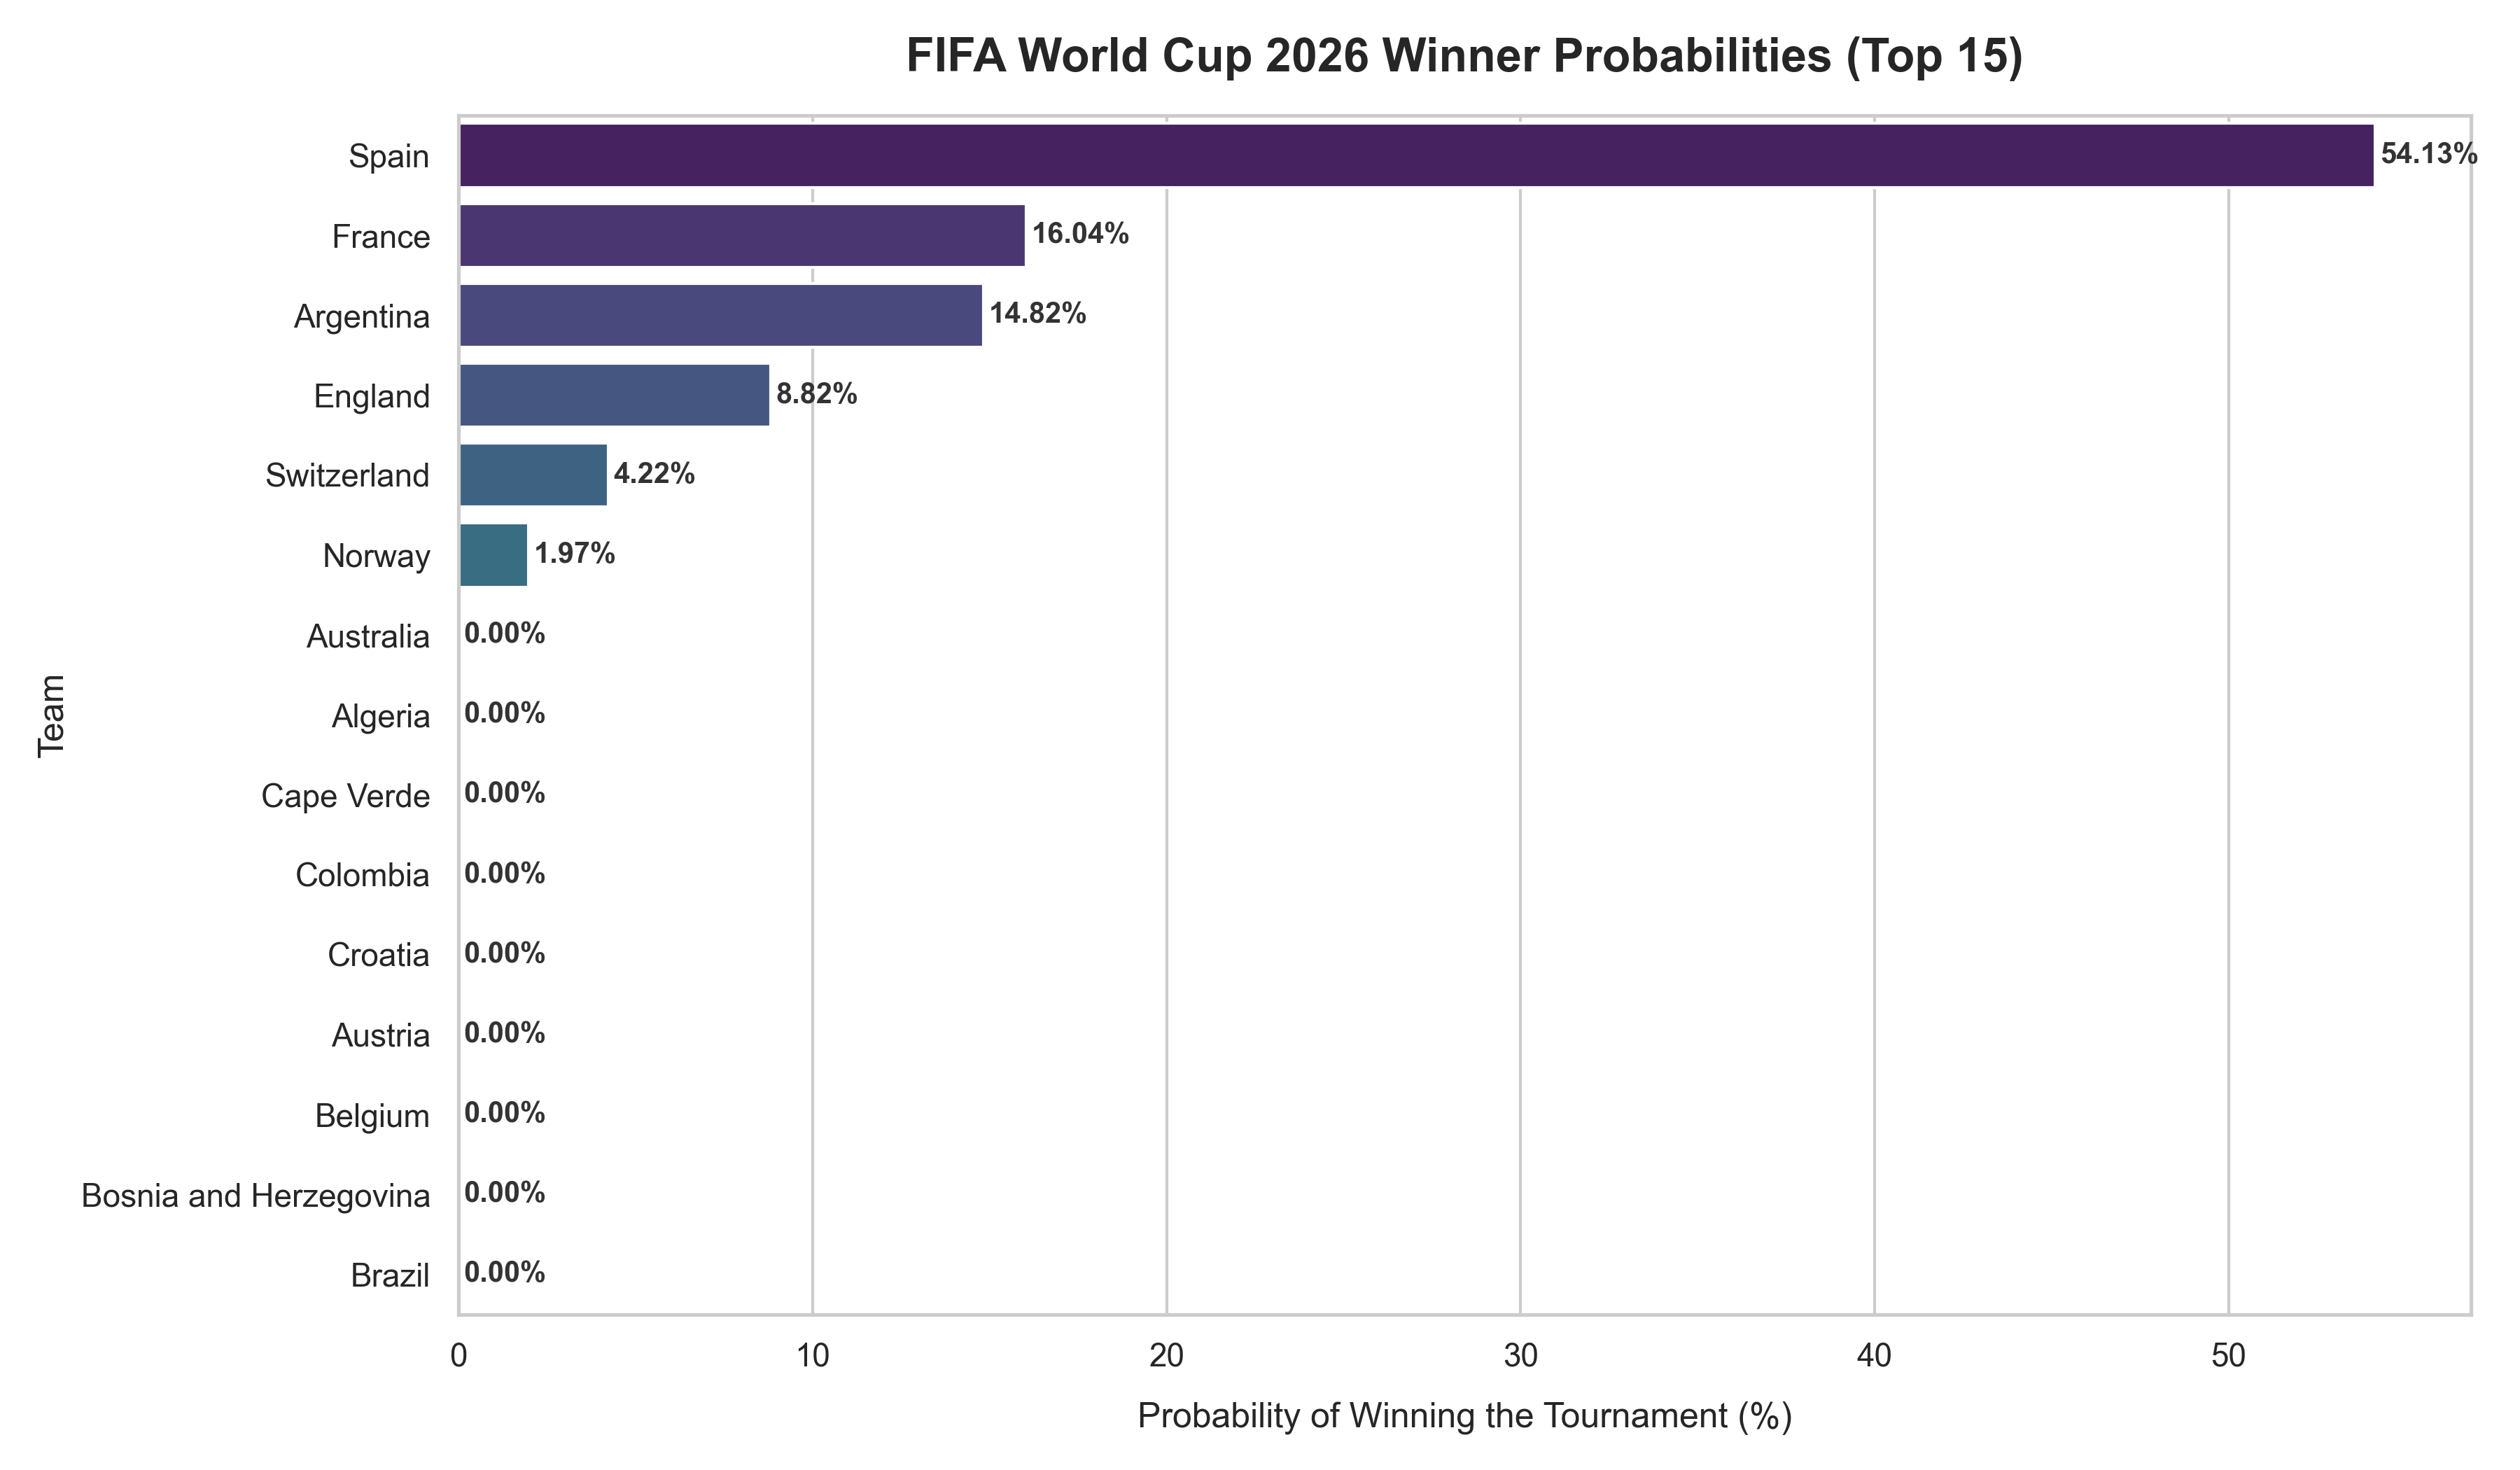
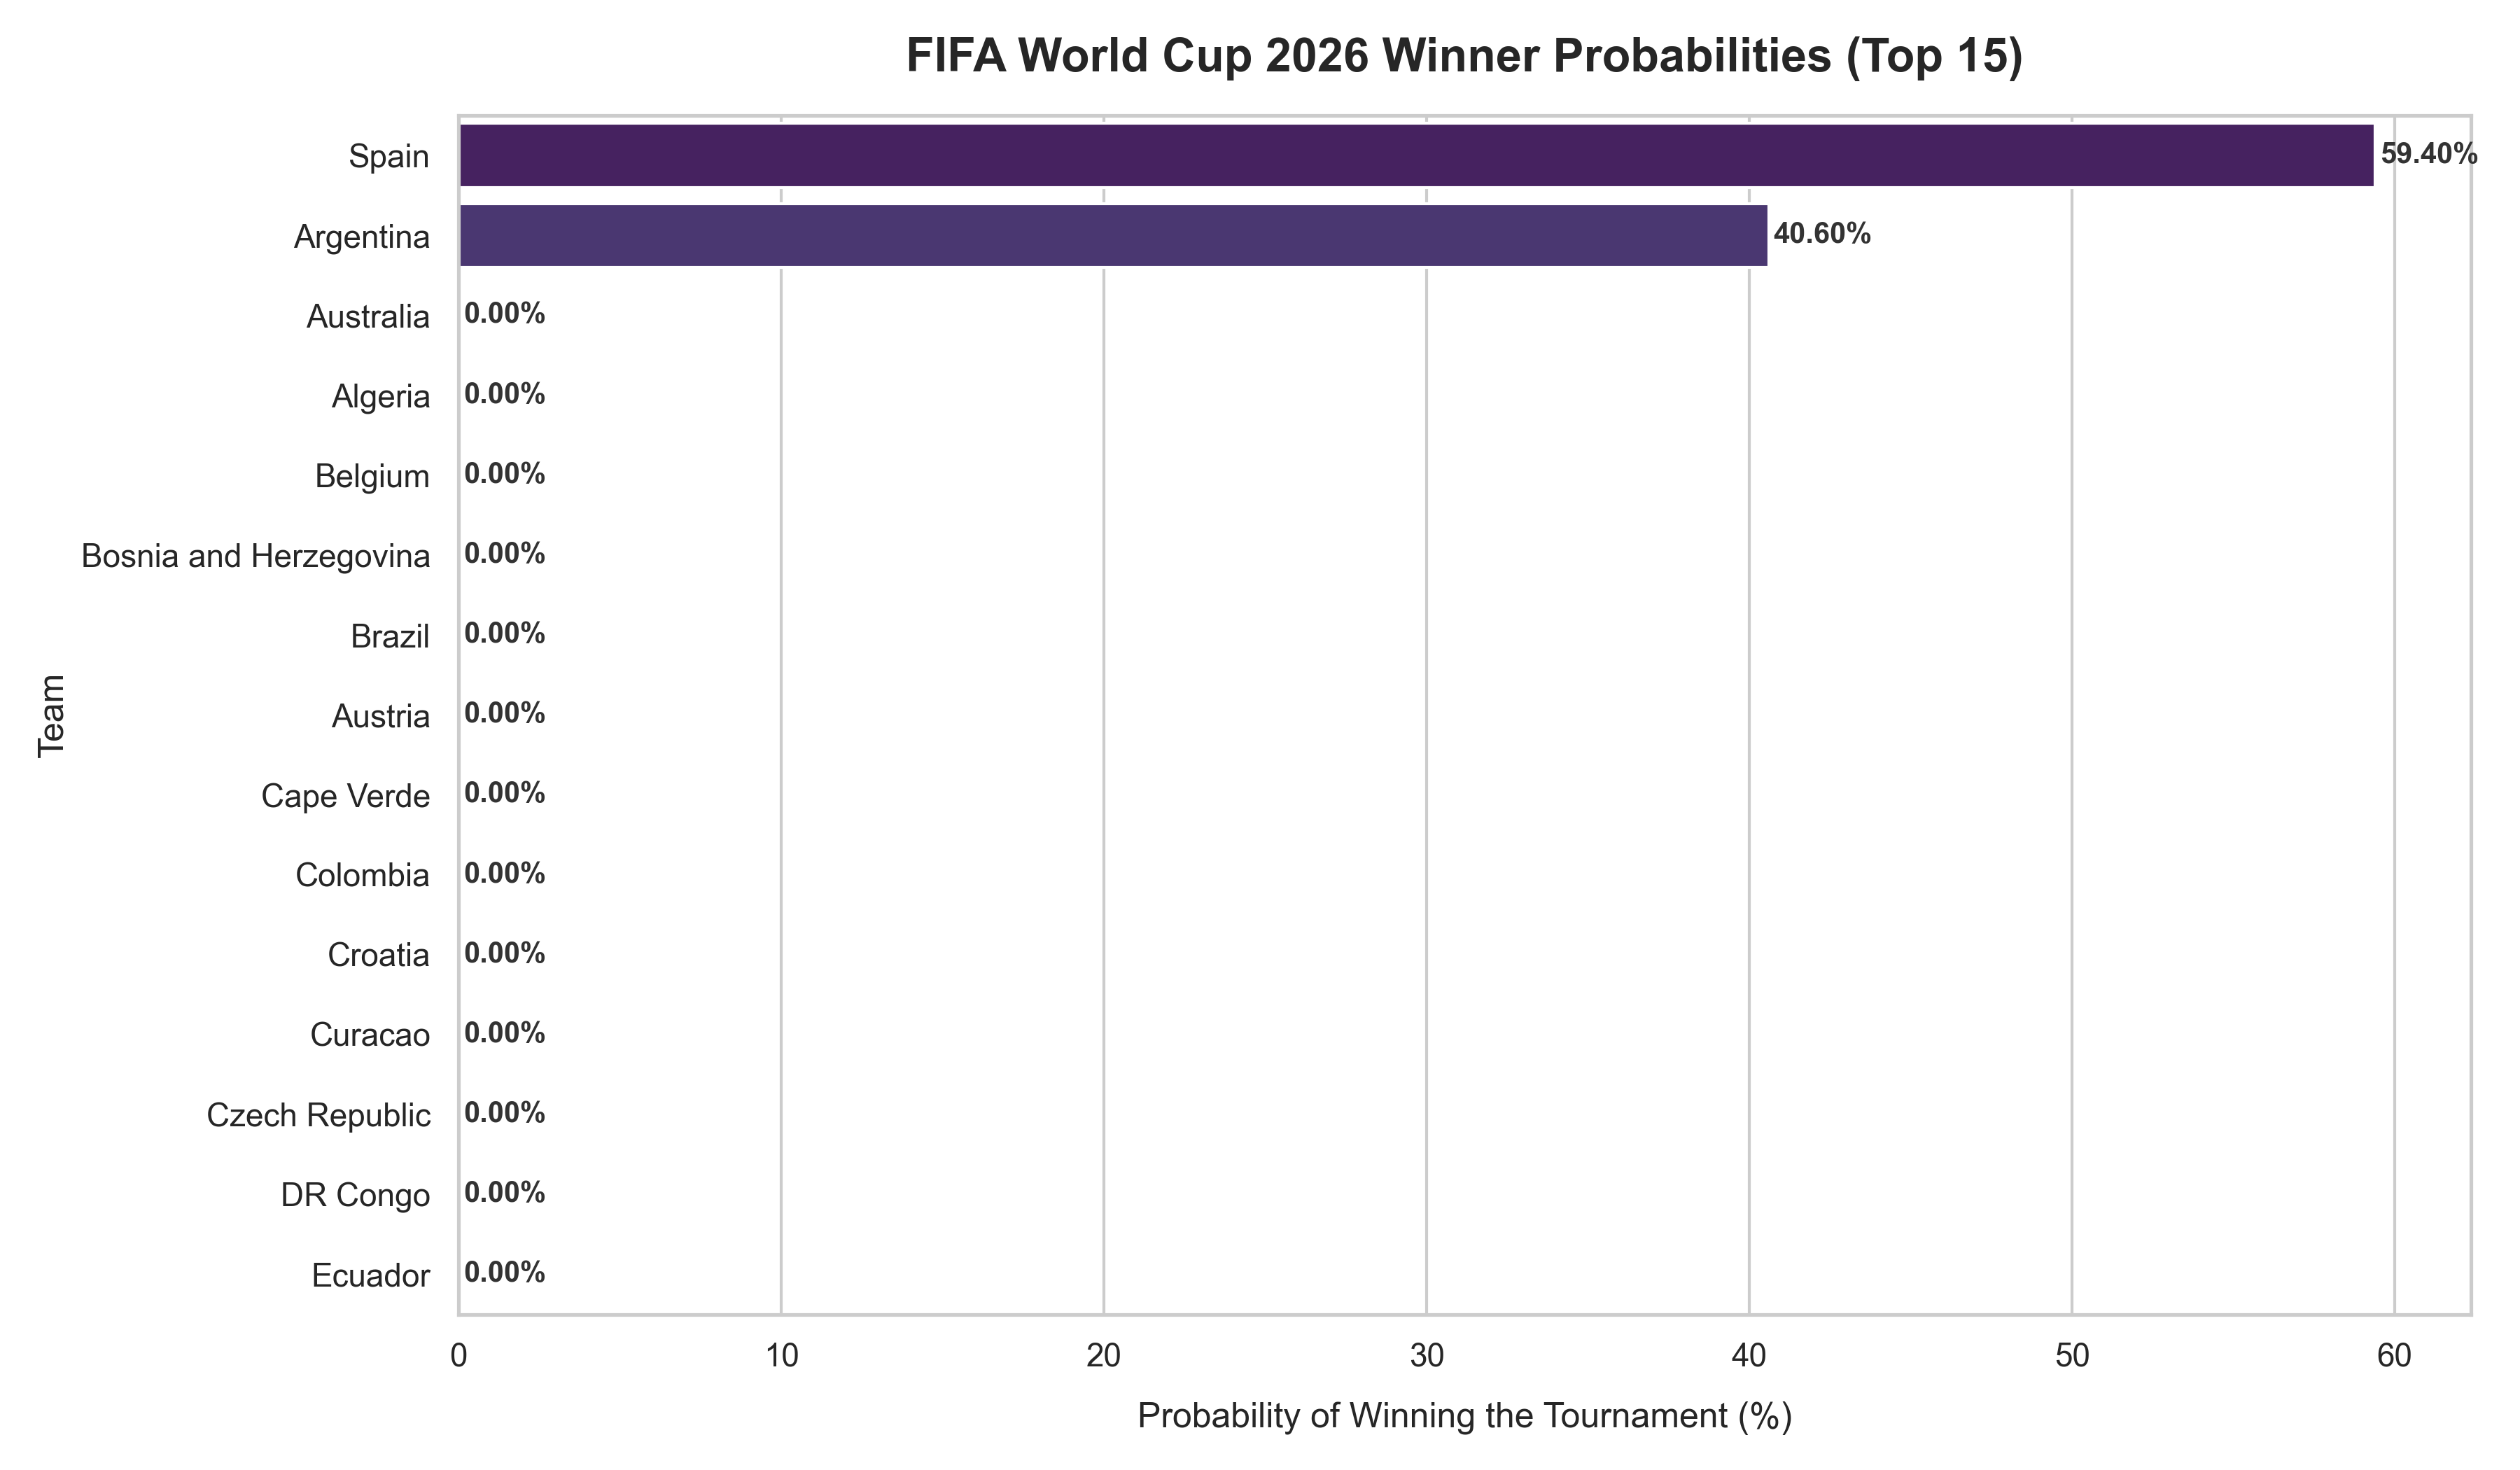
THE FINAL: Spain vs Argentina - Lock all SF/3rd place results + retrain model
Completed results locked:
- SF2 (M102, Jul 15): Argentina 2-1 England
  (Gordon 55' / Fernandez 85', Martinez 90+2')
- 3rd Place (M103, Jul 18): England 6-4 France
  (Saka hat-trick, Rice, Konsa, Bellingham / Mbappe 2, Barcola, Dembele)

Model retrained - FINAL probabilities:
- Spain: 59.4% (tournament winner probability)
- Argentina: 40.6%

Website updates:
- data.js: SF2 result, THIRD_PLACE_FIXTURE, FINAL_FIXTURE added
           Spain 59.4% / Argentina 40.6% / England 0% (eliminated)
- bracket.js: SF2 result locked, THIRD_PLACE match added
- app.js: buildThirdPlace() + buildFinal() functions added
- index.html: THE FINAL section, 3rd Place section, updated nav/badges (v1.4)

diff --git a/website/index.html b/website/index.html
@@ -16,7 +16,9 @@
   <div class="nav-links">
     <a href="#winner">Winner</a>
     <a href="#contenders">Contenders</a>
+    <a href="#final">THE FINAL</a>
     <a href="#knockout">Bracket</a>
+    <a href="#third-place">3rd Place</a>
     <a href="#sf">Semi-Finals</a>
     <a href="#qf">Quarter-Finals</a>
     <a href="#r16">Round of 16</a>
@@ -24,8 +26,8 @@
     <a href="#groups">Group Stage</a>
   </div>
   <div class="nav-badge">XGBoost · Poisson</div>
-  <div class="nav-badge" style="background:linear-gradient(90deg,#16a34a,#15803d);margin-left:0.5rem">✅ QF Complete</div>
-  <div class="nav-badge" style="background:linear-gradient(90deg,#7c3aed,#6d28d9);margin-left:0.5rem">🏟️ Semi-Finals</div>
+  <div class="nav-badge" style="background:linear-gradient(90deg,#16a34a,#15803d);margin-left:0.5rem">✅ SF Complete</div>
+  <div class="nav-badge" style="background:linear-gradient(90deg,#dc2626,#b91c1c);margin-left:0.5rem">🏆 THE FINAL TODAY</div>
 </nav>
 
 <!-- ── HERO ────────────────────────────────────────────────────────────────── -->
@@ -48,7 +50,7 @@
 <section id="winner">
   <div class="section-inner">
     <div class="section-title"><span>🥇</span> Predicted Champion</div>
-    <div class="section-sub">Pure data-driven model · QF complete · SF1 Spain 2–0 France ✅ · SF2 England vs Argentina today · 10,000 Monte Carlo simulations · Retrained Jul 11 2026</div>
+    <div class="section-sub">Pure data-driven model · SF1 Spain 2–0 France ✅ · SF2 Argentina 2–1 England ✅ · 3rd Place England 6–4 France ✅ · 10,000 Monte Carlo simulations · Retrained Jul 19 2026</div>
     <div class="winner-card">
       <div class="winner-flag">
         <img id="winner-flag" src="" alt="Winner">
@@ -83,11 +85,20 @@
   </div>
 </section>
 
+<!-- ── THE FINAL ─────────────────────────────────────────────────────────────── -->
+<section id="final" style="background:linear-gradient(135deg,#1a0a2e 0%,#0f172a 100%)">
+  <div class="section-inner">
+    <div class="section-title"><span>🏆</span> THE FINAL — Spain vs Argentina</div>
+    <div class="section-sub">Jul 19 2026 · MetLife Stadium, New York · Model: Spain 59.4% · Argentina 40.6%</div>
+    <div class="r32-grid" id="final-list"></div>
+  </div>
+</section>
+
 <!-- ── SEMI-FINALS ──────────────────────────────────────────────────────────── -->
 <section id="sf">
   <div class="section-inner">
     <div class="section-title"><span>🏟️</span> Semi-Finals</div>
-    <div class="section-sub">SF1: Spain 2–0 France ✅ (Jul 14, AT&amp;T Stadium, Dallas) · SF2: England vs Argentina 🔴 LIVE (Jul 15)</div>
+    <div class="section-sub">SF1: Spain 2–0 France ✅ (Jul 14, AT&amp;T Stadium, Dallas) · SF2: Argentina 2–1 England ✅ (Jul 15, Mercedes-Benz Stadium, Atlanta)</div>
     <div class="r32-grid" id="sf-list"></div>
   </div>
 </section>
@@ -98,6 +109,15 @@
     <div class="section-title"><span>🔥</span> Quarter-Finals — Results</div>
     <div class="section-sub">All 4 QF matches completed (Jul 9–11) · AI pre-match odds shown alongside final scores</div>
     <div class="r32-grid" id="qf-list"></div>
+  </div>
+</section>
+
+<!-- ── 3RD PLACE PLAY-OFF ─────────────────────────────────────────────────── -->
+<section id="third-place">
+  <div class="section-inner">
+    <div class="section-title"><span>🥉</span> 3rd Place Play-Off — Results</div>
+    <div class="section-sub">England 6–4 France ✅ (Jul 18, Hard Rock Stadium, Miami) · Bukayo Saka hat-trick · Mbappé all-time WC top scorer (22 goals)</div>
+    <div class="r32-grid" id="third-place-list"></div>
   </div>
 </section>
 
@@ -135,8 +155,8 @@
   <p style="margin-top:0.5rem;opacity:0.5">Predictions are probabilistic estimates, not guarantees. Data as of June 2026.</p>
 </footer>
 
-<script src="js/data.js?v=1.3"></script>
-<script src="js/bracket.js?v=1.3"></script>
-<script src="js/app.js?v=1.3"></script>
+<script src="js/data.js?v=1.4"></script>
+<script src="js/bracket.js?v=1.4"></script>
+<script src="js/app.js?v=1.4"></script>
 </body>
 </html>

diff --git a/website/js/data.js b/website/js/data.js
@@ -1,15 +1,15 @@
 // ─── TEAM DATA ───────────────────────────────────────────────────────────────
-// winner: overall tournament winner probability (%) — XGBoost model
-//         SF1 Spain 2-0 France ✓ · SF2 England vs Argentina (Jul 15)
-//         France & Switzerland eliminated → winner set to 0.00
+// winner: overall tournament winner probability (%) — XGBoost model retrained Jul 19 2026
+//         SF1 Spain 2-0 France ✓ · SF2 Argentina 2-1 England ✓ · 3rd Place England 6-4 France ✓
+//         FINAL: Spain vs Argentina — TODAY Jul 19 2026 · MetLife Stadium, New York
 // flag:   ISO 3166-1 alpha-2 code for flagcdn.com
 const TEAMS = {
-  "Spain":                 { group:"H", rank:2,  winner:54.13, flag:"es"     },
+  "Spain":                 { group:"H", rank:2,  winner:59.40, flag:"es"     },
   "France":                { group:"I", rank:1,  winner:0.00,  flag:"fr"     },
-  "Argentina":             { group:"J", rank:3,  winner:14.82, flag:"ar"     },
-  "England":               { group:"L", rank:4,  winner:8.82, flag:"gb-eng" },
+  "Argentina":             { group:"J", rank:3,  winner:40.60, flag:"ar"     },
+  "England":               { group:"L", rank:4,  winner:0.00, flag:"gb-eng" },
   "Switzerland":           { group:"B", rank:19, winner:0.00,  flag:"ch"     },
-  "Norway":                { group:"I", rank:31, winner:1.97,  flag:"no"     },
+  "Norway":                { group:"I", rank:31, winner:0.00,  flag:"no"     },
   "Morocco":               { group:"C", rank:8,  winner:0.00,  flag:"ma"     },
   "Brazil":                { group:"C", rank:6,  winner:0.00,  flag:"br"     },
   "Portugal":              { group:"K", rank:5,  winner:0.00,  flag:"pt"     },
@@ -184,6 +184,16 @@ const QF_FIXTURES = [
 
 // ─── SEMI-FINAL FIXTURES ─────────────────────────────────────────────────────
 const SF_FIXTURES = [
-  { id:101, date:"Jul 14", home:"France",    away:"Spain",    venue:"AT&T Stadium, Dallas",   result: { homeScore:0, awayScore:2 }, preMatchProbs: { home:22.8, draw:24.6, away:52.6 } },
-  { id:102, date:"Jul 15", home:"England",   away:"Argentina", venue:"Mercedes-Benz Stadium, Atlanta",                               preMatchProbs: { home:38.8, draw:25.9, away:35.3 } }
+  { id:101, date:"Jul 14", home:"France",    away:"Spain",     venue:"AT&T Stadium, Dallas",           result: { homeScore:0, awayScore:2 }, preMatchProbs: { home:22.8, draw:24.6, away:52.6 } },
+  { id:102, date:"Jul 15", home:"England",   away:"Argentina", venue:"Mercedes-Benz Stadium, Atlanta",  result: { homeScore:1, awayScore:2 }, preMatchProbs: { home:38.8, draw:25.9, away:35.3 } }
+];
+
+// ─── 3RD PLACE PLAY-OFF ──────────────────────────────────────────────────────
+const THIRD_PLACE_FIXTURE = [
+  { id:103, date:"Jul 18", home:"France",  away:"England", venue:"Hard Rock Stadium, Miami", result: { homeScore:4, awayScore:6 }, preMatchProbs: { home:40.2, draw:24.8, away:35.0 } }
+];
+
+// ─── FINAL FIXTURE ───────────────────────────────────────────────────────────
+const FINAL_FIXTURE = [
+  { id:104, date:"Jul 19", home:"Spain", away:"Argentina", venue:"MetLife Stadium, New York", preMatchProbs: { home:59.4, draw:0.0, away:40.6 } }
 ];

diff --git a/website/js/app.js b/website/js/app.js
@@ -349,6 +349,12 @@ function buildQF() {
 function buildSF() {
   if (typeof SF_FIXTURES !== 'undefined') buildKnockoutRound(SF_FIXTURES, 'sf-list');
 }
+function buildThirdPlace() {
+  if (typeof THIRD_PLACE_FIXTURE !== 'undefined') buildKnockoutRound(THIRD_PLACE_FIXTURE, 'third-place-list');
+}
+function buildFinal() {
+  if (typeof FINAL_FIXTURE !== 'undefined') buildKnockoutRound(FINAL_FIXTURE, 'final-list');
+}
 
 // -- INIT ------------------------------------------------------------------
 document.addEventListener('DOMContentLoaded', () => {
@@ -356,6 +362,8 @@ document.addEventListener('DOMContentLoaded', () => {
   buildWinner();
   buildContenders();
   if (typeof buildKnockoutBracket === 'function') buildKnockoutBracket();
+  buildFinal();
+  buildThirdPlace();
   buildSF();
   buildQF();
   buildR16();

diff --git a/website/js/bracket.js b/website/js/bracket.js
@@ -72,10 +72,12 @@ const QF = [
   { id:100,src:[95,96], date:"Jul 11", result:{ hg:3, ag:1, winner:"Argentina" } },
 ];
 const SF = [
-  { id:101, src:[97,98],  date:"Jul 14", result:{ hg:2, ag:0, winner:"Spain" } },
-  { id:102, src:[99,100], date:"Jul 15" },
+  { id:101, src:[97,98],  date:"Jul 14", result:{ hg:0, ag:2, winner:"Spain" } },
+  { id:102, src:[99,100], date:"Jul 15", result:{ hg:1, ag:2, winner:"Argentina" } },
 ];
-const FINAL = { id:104, src:[101,102], date:"Jul 19" };
+const THIRD_PLACE = { id:103, src:[101,102], date:"Jul 18",
+  result:{ hg:4, ag:6, winner:"England" } }; // France 4-6 England (losers bracket)
+const FINAL = { id:104, src:[101,102], date:"Jul 19 🏆" };
 
 // ── BRACKET RENDERER ─────────────────────────────────────────────────────────
 function flagUrl2(code) {

diff --git a/predict_world_cup.py b/predict_world_cup.py
@@ -853,24 +853,27 @@ def simulate_tournament():
     # Match 98 (Jul 10): Spain 2-1 Belgium — COMPLETED
     ko_winners[98] = 'Spain'
     
-    # Match 99 (Jul 11): Norway vs England — ONGOING TODAY (simulated)
-    g99_h, g99_a = simulate_match(ko_winners[91], ko_winners[92], neutral=1, is_knockout=True)
-    ko_winners[99] = ko_winners[91] if g99_h > g99_a else ko_winners[92]
+    # Match 99 (Jul 11): England 2-1 Norway — COMPLETED
+    ko_winners[99] = 'England'
     
-    # Match 100 (Jul 11): Argentina vs Switzerland — ONGOING TODAY (simulated)
-    g100_h, g100_a = simulate_match(ko_winners[95], ko_winners[96], neutral=1, is_knockout=True)
-    ko_winners[100] = ko_winners[95] if g100_h > g100_a else ko_winners[96]
+    # Match 100 (Jul 11): Argentina 3-1 Switzerland — COMPLETED
+    ko_winners[100] = 'Argentina'
     
-    # 5. SEMIFINALS
-    # Match 101: Winner 97 vs Winner 98
-    g101_h, g101_a = simulate_match(ko_winners[97], ko_winners[98], neutral=1, is_knockout=True)
-    ko_winners[101] = ko_winners[97] if g101_h > g101_a else ko_winners[98]
+    # 5. SEMIFINALS — ALL COMPLETED ─────────────────────────────────────────────
+    # Match 101 (Jul 14): Spain 2-0 France — COMPLETED
+    ko_winners[101] = 'Spain'
     
-    # Match 102: Winner 99 vs Winner 100
-    g102_h, g102_a = simulate_match(ko_winners[99], ko_winners[100], neutral=1, is_knockout=True)
-    ko_winners[102] = ko_winners[99] if g102_h > g102_a else ko_winners[100]
+    # Match 102 (Jul 15): Argentina 2-1 England — COMPLETED
+    # (Gordon 55' / Fernández 85', Martínez 90+2')
+    ko_winners[102] = 'Argentina'
     
-    # 6. FINAL
+    # 3RD PLACE PLAY-OFF — COMPLETED ────────────────────────────────────────────
+    # Match 103 (Jul 18): England 6-4 France — COMPLETED (Bronze Medal)
+    # (Saka hat-trick, Rice, Konsa, Bellingham / Mbappé 2, Barcola, Dembélé)
+    ko_winners[103] = 'England'
+    
+    # 6. FINAL — UPCOMING TODAY (Jul 19) ────────────────────────────────────────
+    # Match 104: Spain vs Argentina — THE FINAL (simulated)
     g104_h, g104_a = simulate_match(ko_winners[101], ko_winners[102], neutral=1, is_knockout=True)
     winner = ko_winners[101] if g104_h > g104_a else ko_winners[102]
     